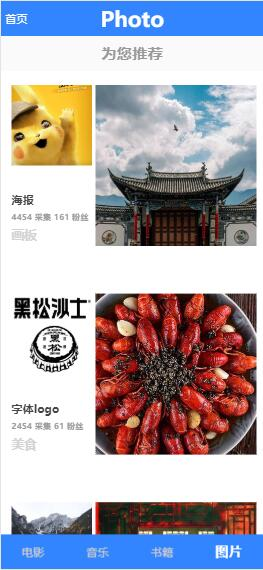
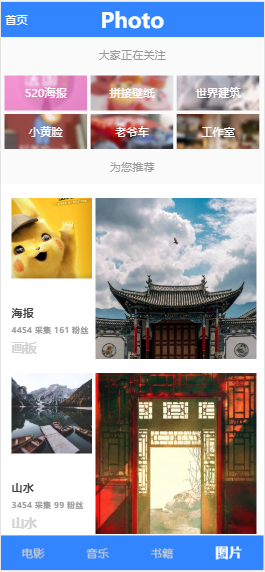
修改photo界面

diff --git a/src/components/photo/PhotoList.vue b/src/components/photo/PhotoList.vue
@@ -1,15 +1,38 @@
 <template>
     <ul class="list">
         <div class="nav">
-            <h3>为您推荐</h3>
+            <p>大家正在关注</p>
+            <ul>
+                <li class="nav_img1 img">
+                    <p>520海报</p>
+                </li>
+                <li class="nav_img2 img">
+                    <p>拼接壁纸</p>
+                </li>
+                <li class="nav_img3 img">
+                    <p>世界建筑</p>
+                </li>
+                <li class="nav_img4 img">
+                    <p>小黄脸</p>
+                </li>
+                <li class="nav_img5 img">
+                    <p>老爷车</p>
+                </li>
+                <li class="nav_img6 img">
+                    <p>工作室</p>
+                </li>
+            </ul>
+        </div>
+        <div class="nav">
+            <p>为您推荐</p>
         </div>
         <li v-for="photo in photoList" >
             <div class="content">
                 <div class="left">
-                    <img :src="photo.url1" alt="">
+                    <img :src="photo.url" alt="">
                     <div class="info_top">
-                        <p class="name">{{ photo.name1 }}</p>
-                        <p class="num font">{{ photo.num1 }}  <span>{{ photo.fs }}</span></p>
+                        <p class="name">{{ photo.name }}</p>
+                        <p class="num font">{{ photo.num }}  <span>{{ photo.fs }}</span></p>
                         <h4>{{photo.logo}}</h4>
                     </div>
                 </div>
@@ -28,19 +51,19 @@
             <div class="content">
             <div class="right">
                 <div>
-                    <img :src="photo.url4" alt="">
+                    <img :src="photo.url2" alt="">
                 </div>
                 <div class="info">
-                    <p class="name">{{ photo.name4 }}</p>
-                    <p class="num">{{ photo.num4 }} <span>{{ photo.fs4 }}</span></p>
+                    <p class="name">{{ photo.name2 }}</p>
+                    <p class="num">{{ photo.num2 }} <span>{{ photo.fs2 }}</span></p>
                 </div>
             </div>
             <div class="left">
-                <img :src="photo.url3" alt="">
+                <img :src="photo.url" alt="">
                 <div class="info_top">
-                    <p class="name">{{ photo.name3 }}</p>
-                    <p class="num font">{{ photo.num3 }}  <span>{{ photo.f3 }}</span></p>
-                    <h4>{{ photo.logo2 }}</h4>
+                    <p class="name">{{ photo.name }}</p>
+                    <p class="num font">{{ photo.num }}  <span>{{ photo.fs }}</span></p>
+                    <h4>{{ photo.logo }}</h4>
                 </div>
             </div>
         </div>
@@ -66,11 +89,39 @@
 </script>
 
 <style scoped>
-    .nav h3{
+    .nav p{
+        font-size: inherit;
         color: #999999;
         text-align:center;
         background-color: #FAFAFA;
         line-height: 1rem;
+    }
+    .nav ul li {
+        float: left;
+        width: 31.5%;
+        margin: 0.1rem 0 0 0.1rem;
+    }
+    .nav .img p{
+        background-size: cover;
+        color: #ffffff;
+    }
+    .nav .nav_img1 p{
+        background-image: url(https://hbimg.huabanimg.com/23cdda6daf089130921d574f5183b8fbf331e47624711-aRB9xK_sq236bl4);
+    }
+    .nav .nav_img2 p{
+        background-image: url(https://hbimg.huabanimg.com/ed7e19729c02ae303e385ff93c98a5de00124cc1178013-tje7GY_sq236bl4);
+    }
+    .nav .nav_img3 p{
+        background-image: url(https://hbimg.huabanimg.com/001ffe7c7c092ec86322743834d9e3ef2867eff533d17-GvOXOk_sq236bl4);
+    }
+    .nav .nav_img4 p{
+        background-image: url(https://hbimg.huabanimg.com/384f0d098bbb58a18b723993aeda05ff6538d25b2a857-bJknUw_sq236bl4);
+    }
+    .nav .nav_img5 p{
+        background-image: url(https://hbimg.huabanimg.com/78688e38a45d2ec025ca3d286b4f4c39cb60d009251ff-nNqKc1_sq236bl4);
+    }
+    .nav .nav_img6 p{
+        background-image: url(https://hbimg.huabanimg.com/50ea3e9101bcd90844e92b6638ab643c032e1e611af56-K0J88l_sq236bl4);
     }
     .list{
         margin: 1rem 0;
